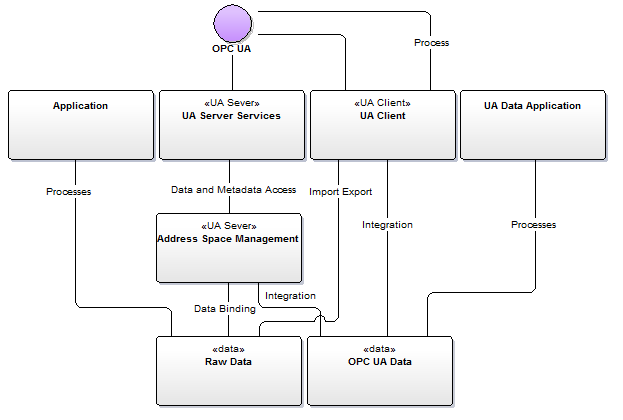
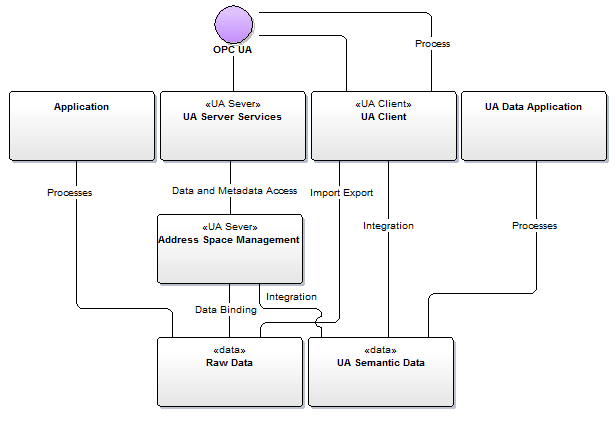
#47 - Added graphics representing domain model and description of the OPC UA Semantic Data.

diff --git a/SemanticDataSolution/README.MD b/SemanticDataSolution/README.MD
@@ -1,13 +1,46 @@
-# Description
 
-The [UANodeSetValidation](https://github.com/mpostol/OPC-UA-OOI/tree/master/SemanticDataSolution/UANodeSetValidation) project is aimed to validate UANodeSet xml files. 
-To validate a new model add the code to the [USNodeSetValidationUnitTestProject](https://github.com/mpostol/OPC-UA-OOI/tree/master/SemanticDataSolution/USNodeSetValidationUnitTestProject) 
-and XML file to the XMLModels in this project. If the validation test does not recognize an error the code in the UANodeSetValidation must be improved. 
+# Using OPC UA Data Ouside of the Server
+## Domain Model
+
+![sasa](.\Media\UADataIntegrationServices.Domain.png)
+
+## UA Semantic Data
+
+The OPC UA Semantic Data represents the following triple:
+
+* Globally Unique Identifier   
+* Data Type as an Entity of the OPC UA Information Model   
+* Data Object in Context of OPC UA Address Space   
+
+Any data object is always just a stream of bits. To understand the binary data we must have defined a data type – a description how to create an appropriate bits pattern. Simplifying, the data type determines a set of valid values and rules needed to assign the information (understand the data) to a selected bits pattern.
+
+OPC UA specification provides additional possibility to define meaning of the data, i.e. exposing the data in the context of metadata. In this case the data is made available as the *Value* attribute of the *Variable* node and surrounded by other nodes creating part of relationship.
+
+Unique identifier and both methods of data meaning definition makeup a concept of OPC UA Semantic Data. Again this concept can be implemented using the OPC UA Information Model to define types and OPC UA Address Space Model to expose the data in the context of metadata.
+
+To keep all benefits of the OPC UA Semantic Data concept the remote end users (UA Data Application) are interested to process the data using relevant part of the OPC UA Address Space.
+
+Some scenarios where the OPC UA Semantic Data is used requires that the data is protected against:
+
+* Unauthorized Access  
+* Non-repudiation
+* Integrity
+
+Each node in the OPC UA Address Space is a root of a tree structure created by nodes recursively pointed out by HierarchicalReferences in forward direction. Because each node in this hierarchy is globally recognizable it may be protected as a resource by any independent protection system (for example any Kerberos protocol implementation) supporting authentication and authorization operation and responsible to distribute security tokens used to protect the data as stated above. Hierarchical relationship supports permissions inheritance, i.e. propagation to the children nodes.
+
+# Projects Description
+
+## UANodeSetValidation
+
+
+The [UANodeSetValidation](https://github.com/mpostol/OPC-UA-OOI/tree/master/SemanticDataSolution/UANodeSetValidation) project is aimed to validate UANodeSet xml files.
+To validate a new model add the code to the [USNodeSetValidationUnitTestProject](https://github.com/mpostol/OPC-UA-OOI/tree/master/SemanticDataSolution/USNodeSetValidationUnitTestProject)
+and XML file to the XMLModels in this project. If the validation test does not recognize an error the code in the UANodeSetValidation must be improved.
 In this case add issue or modify the code on your fork and add purge request after finishing.
 
 # Public API
+
 Public API of the [UANodeSetValidation](https://github.com/mpostol/OPC-UA-OOI/tree/master/SemanticDataSolution/UANodeSetValidation) is described by the interface:
 *IAddressSpaceContext*
 
 This interface may be used for dependency injection.
-
